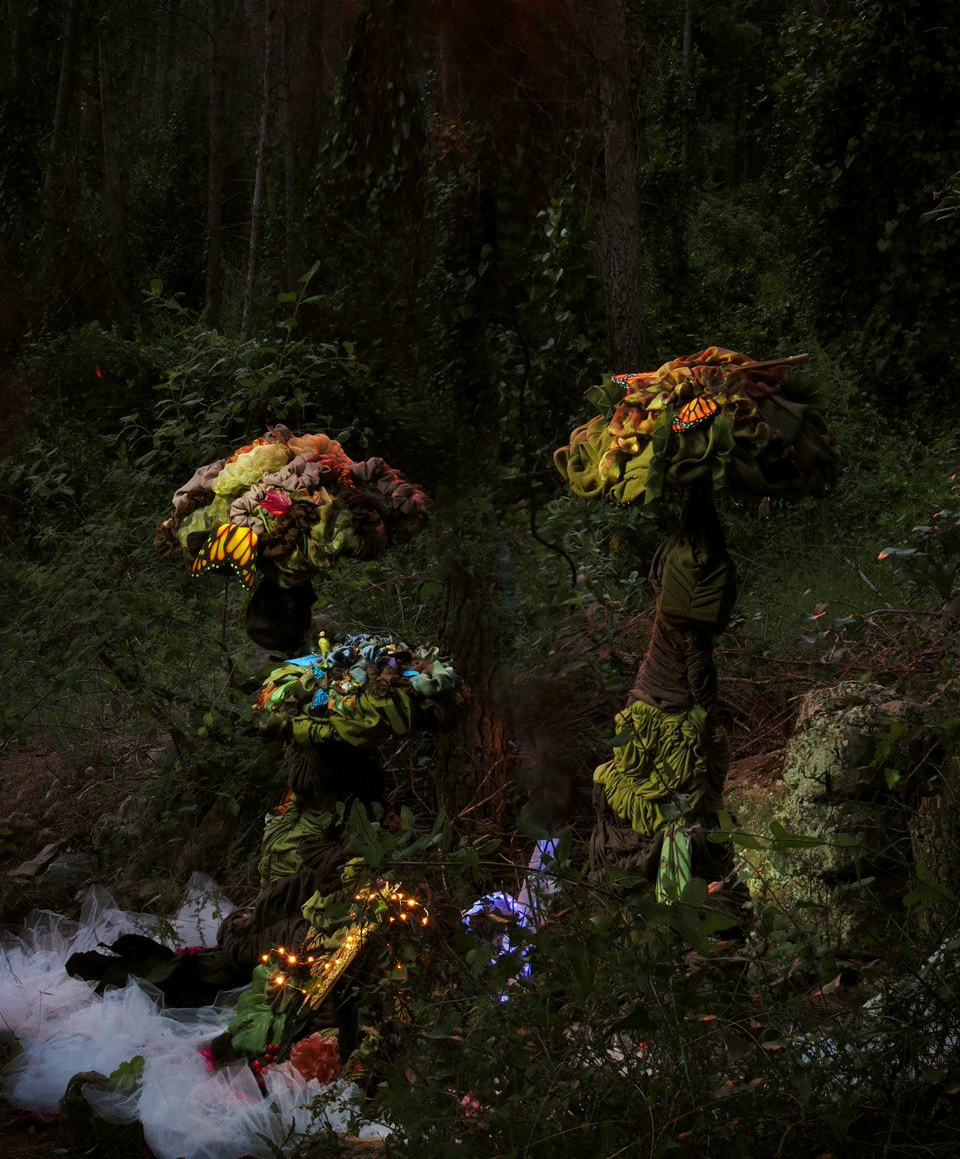
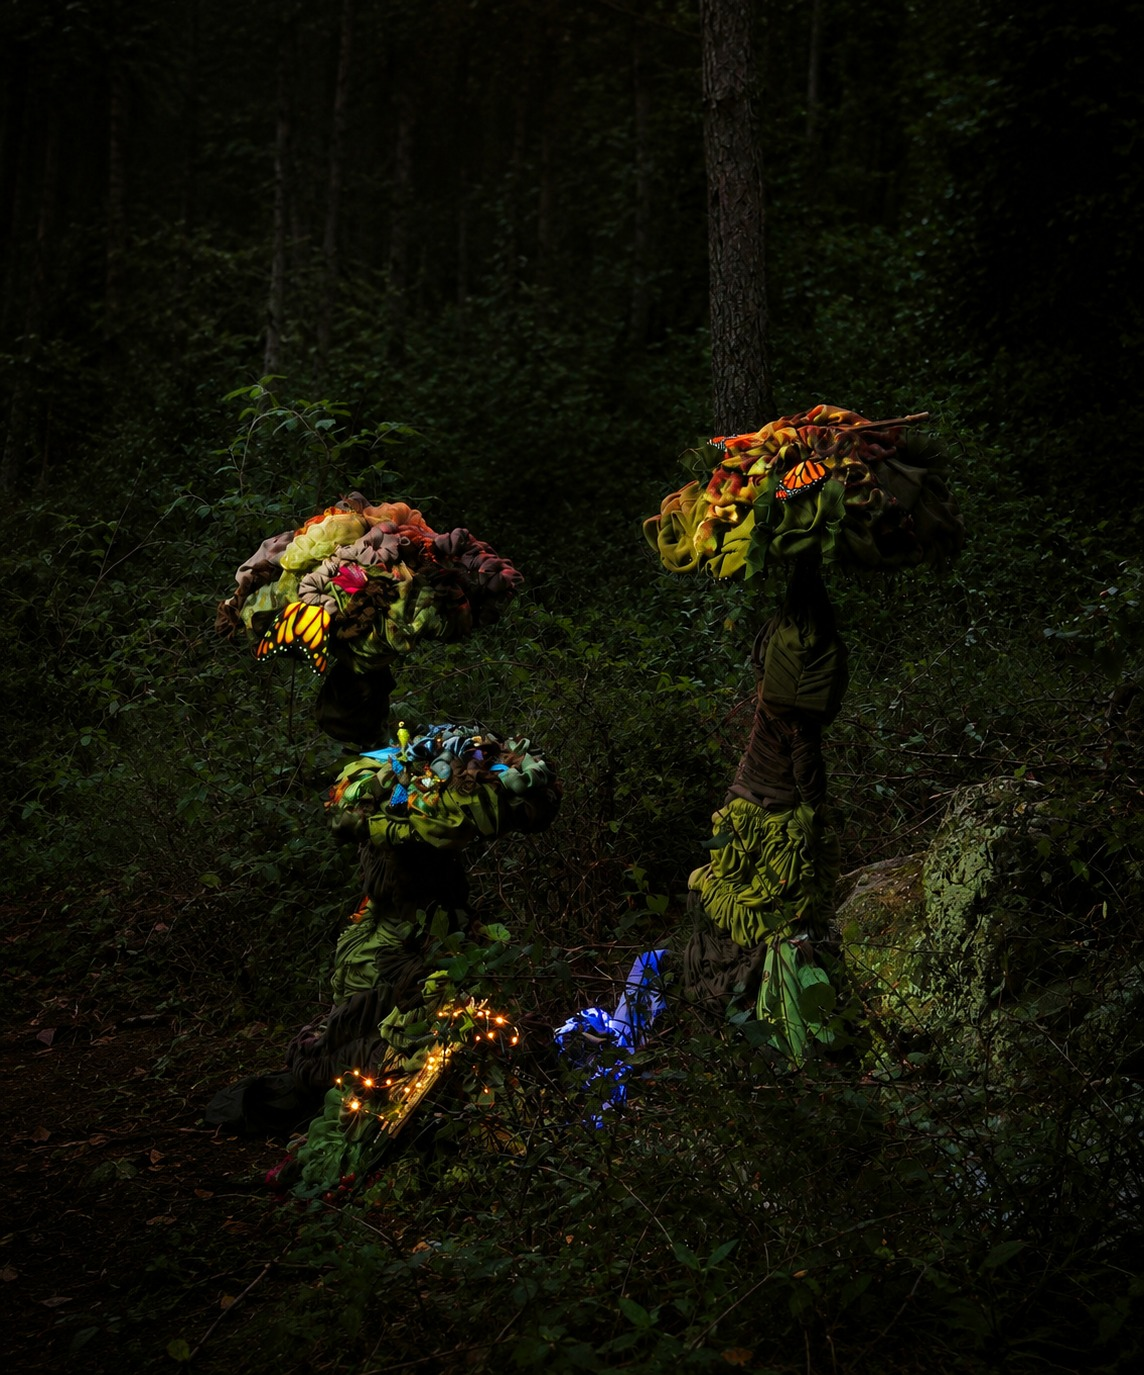
New Mycelium cover image
The night shot sits low in its frame, so the tile anchors this one crop to the bottom instead of the top.

diff --git a/art.html b/art.html
@@ -27,7 +27,7 @@
     <div class="grid">
 
         <a class="tile" href="./mycelium-parlour-1">
-            <img src="./media/mycelium_parlour_1.jpg" alt="Mycelium Parlour at NEST Festival" loading="lazy">
+            <img class="crop-bottom" src="./media/mycelium_parlour_0.jpg" alt="Mycelium Parlour at NEST Festival" loading="lazy">
             <span class="tile-cap">
                 <span class="cap-name">Mycelium Parlour</span>
                 <span class="cap-venue">NEST Festival</span>

diff --git a/css/terper.css b/css/terper.css
@@ -265,6 +265,14 @@ body.splash {
     transition: opacity 0.22s ease;
 }
 
+/* Tiles anchor their square crop to the top, which suits every cover whose
+   subject sits high in the frame. Mycelium Parlour's is a night shot with
+   the installation low against the treeline, so a top crop shows sky and
+   little else. This anchors that one to the bottom instead. */
+.tile img.crop-bottom {
+    object-position: bottom;
+}
+
 .tile:hover img {
     opacity: 0.72;
 }
